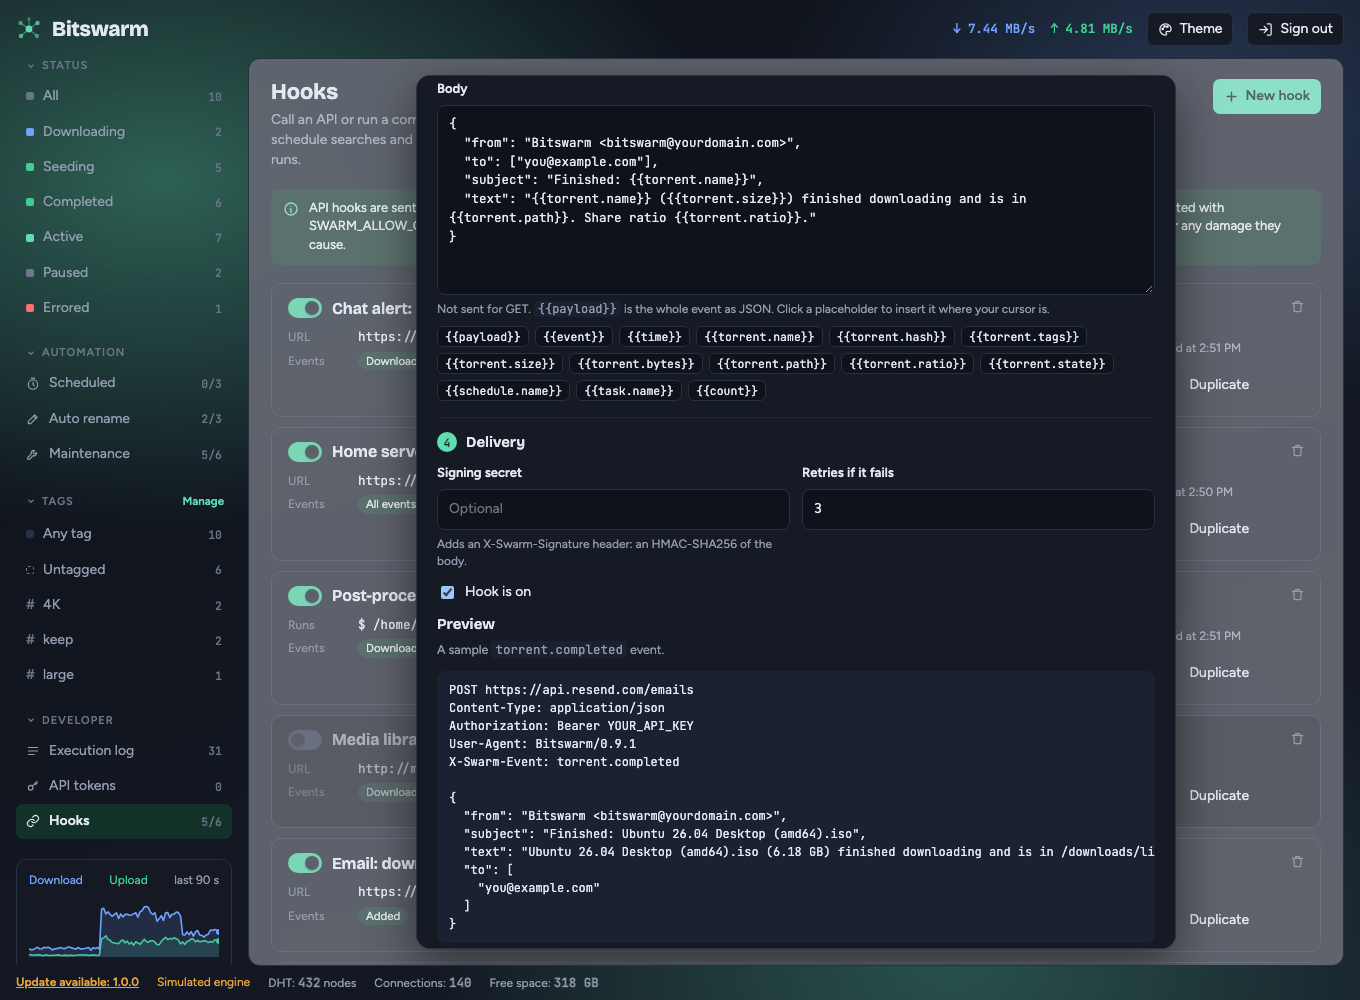
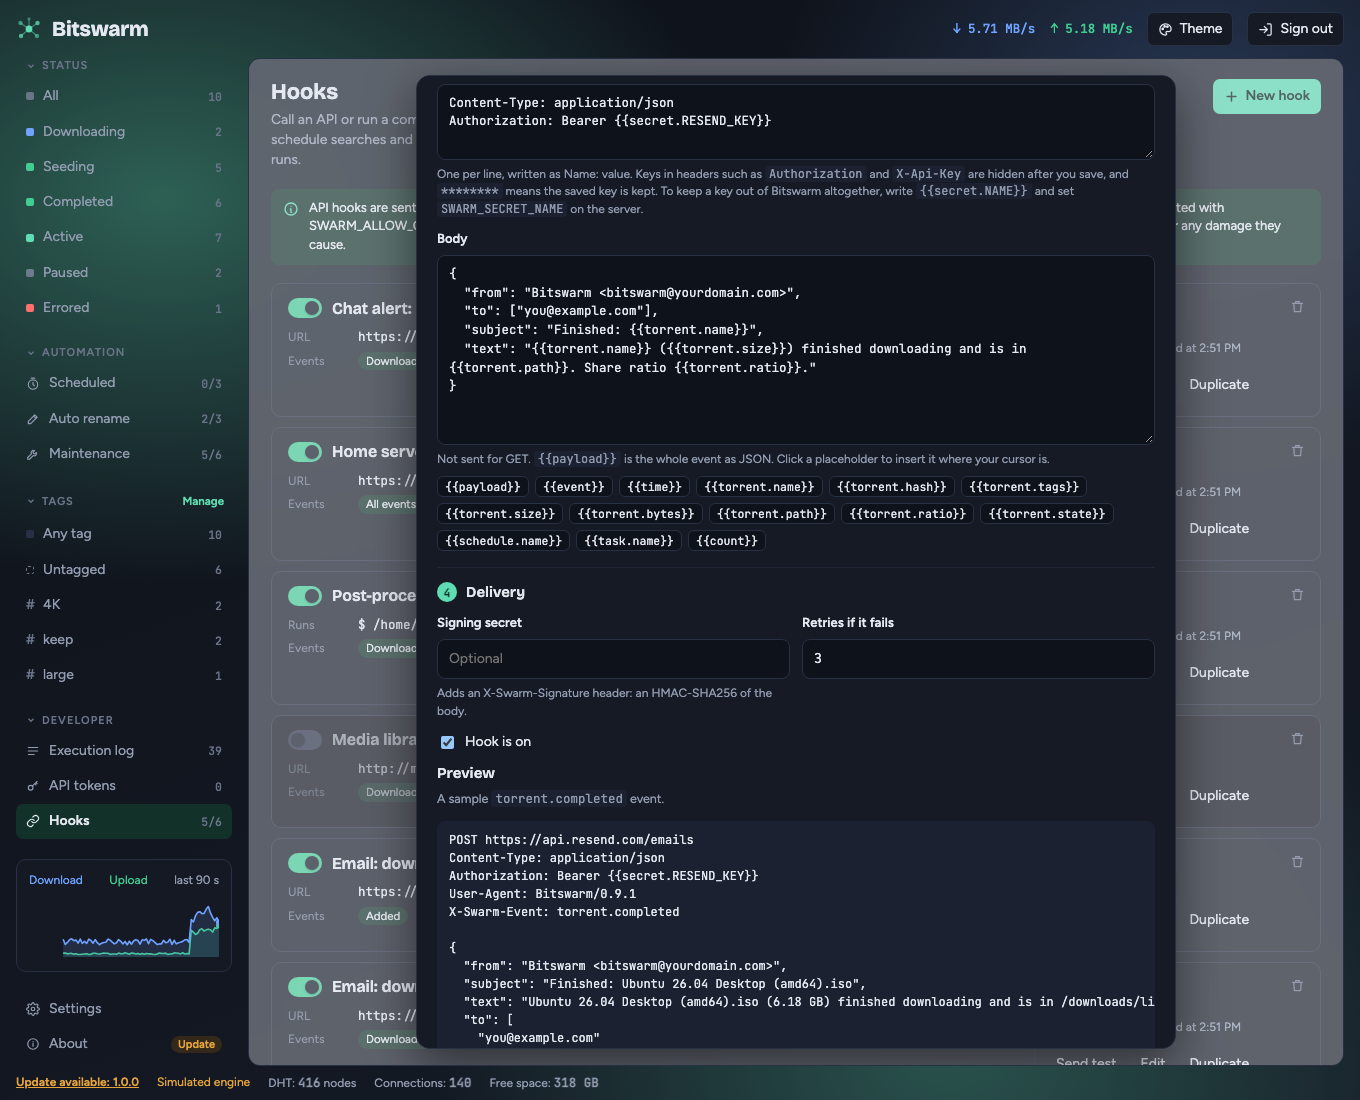
Document how secrets are handled
Add keeping keys out of the database to the README, a Secrets summary under
Security, the SWARM_SECRET_ variables, SECURITY.md advice and the rules for
contributors in CLAUDE.md. Replace chmod 777 with a chown in the quick start,
and retake the API hook screenshot to match.

diff --git a/README.md b/README.md
@@ -74,8 +74,10 @@ Use any email service that sends mail from a JSON request. This example uses the
 
 ```text
 Content-Type: application/json
-Authorization: Bearer YOUR_API_KEY
+Authorization: Bearer {{secret.RESEND_KEY}}
 ```
+
+`{{secret.RESEND_KEY}}` keeps your API key out of Bitswarm's database. See [Keep keys out of the database](#keep-keys-out-of-the-database) below for how to set it.
 
 **Email: download started.** Tick the event **Added**, and use this body:
 
@@ -104,8 +106,31 @@ Notes:
 - Placeholder values are escaped for JSON automatically, so a torrent name with quotes can't break the request.
 - For a magnet link, the name and size may not be known when the torrent is added. Tick **Metadata received** instead of **Added** to send the email once they are.
 - Press **Send test** to send a sample event first. The preview under the form shows the request before anything leaves your machine.
-- The API key is saved with the hook, in the header text. Use a key that can only send email, and treat the `data` folder and settings backups as sensitive.
+- Use an API key that can only send email, and rotate it if it ever leaks.
 - Replace `from` with an address your email service has verified. To send through a different service, change the URL, the headers and the body to match its API.
+
+#### Keep keys out of the database
+
+Write `{{secret.NAME}}` anywhere in an API hook's URL, headers or body. When Bitswarm sends the request, it reads the value from the server's environment variable `SWARM_SECRET_NAME`, or from the file named by `SWARM_SECRET_NAME_FILE` (handy for Docker secrets). Names use capital letters, digits and underscores.
+
+- The value is never saved with the hook. The editor, the API, the delivery history, the logs and backups only ever show `{{secret.NAME}}`.
+- If the variable isn't set, the hook doesn't send and says which one is missing. The editor warns you too.
+- Command hooks can't use it. A script can read its own file instead.
+
+In Docker, put the key in a `.env` file next to `docker-compose.yml`, and pass it to the server with a `docker-compose.override.yml`. Compose picks the override file up on its own:
+
+```text
+SWARM_SECRET_RESEND_KEY=re_your_key_here
+```
+
+```yaml
+services:
+  server:
+    environment:
+      SWARM_SECRET_RESEND_KEY: ${SWARM_SECRET_RESEND_KEY}
+```
+
+Then run `docker compose up -d`. If you type a key straight into a header instead, Bitswarm hides it in the editor and the API after you save, but it is still stored as plain text in the database file. Use `{{secret.NAME}}` when you can.
 
 ### API tokens
 
@@ -132,7 +157,8 @@ You only need [Docker](https://docs.docker.com/get-docker/) with Compose.
 ```sh
 mkdir bitswarm && cd bitswarm
 curl -fsSLO https://raw.githubusercontent.com/bitswarm-dev/bitswarm/main/docker-compose.yml
-mkdir data downloads && chmod 777 data downloads
+mkdir data downloads
+sudo chown 10001:10001 data downloads
 docker compose up -d
 ```
 
@@ -142,7 +168,7 @@ The images [`dockerkeithics/bitswarm-server`](https://hub.docker.com/r/dockerkei
 
 - **Sign-in is always required** in Docker, because the server sees nginx as the client and not localhost.
 - **The web port is bound to `127.0.0.1` by default.** To reach it from other machines, set `SWARM_BIND=0.0.0.0` and put it behind HTTPS.
-- **Data:** the database and engine state live in `./data` (change it with `SWARM_DATA_DIR`). Downloads go to `./downloads` (change it with `SWARM_DOWNLOADS_DIR`). Both folders must be writable by user ID 10001, which is what the `chmod` step does. Without it, Docker creates them owned by root and the server can't start on Linux.
+- **Data:** the database and engine state live in `./data` (change it with `SWARM_DATA_DIR`). Downloads go to `./downloads` (change it with `SWARM_DOWNLOADS_DIR`). Both folders must be writable by user ID 10001, which is what the `chown` step does. Without it, Docker creates them owned by root and the server can't start on Linux. Docker Desktop on macOS and Windows doesn't need the `chown`. Don't open the folders up with `chmod 777`: the data folder holds your database, and Bitswarm makes the database file readable by its owner only. To back it up, use Settings → Backup, or copy it with `sudo`.
 - **Peers:** port 51413 (TCP and UDP) is published for peer connections. If that port is taken, set `SWARM_PEER_PORT` (for example `51414`), set the same listening port in Settings, and restart. The host and container ports must match so peers can reach you. UPnP can't open ports from inside a container, so forward the port on your router if you need incoming connections.
 - **Versions:** the compose file pulls the latest stable release. To pin a version, set `SWARM_VERSION` (for example `SWARM_VERSION=0.9.1`) and run `docker compose pull && docker compose up -d` to update. Each release also has a `docker-compose.yml` already pinned to its version. Per-platform tags such as `0.9.1-amd64` exist too.
 - **Other options** (set in your shell or a `.env` file): `SWARM_WEB_PORT` (default 8080), `SWARM_PEER_PORT` (default 51413), `SWARM_DATA_DIR`, `SWARM_DOWNLOADS_DIR`, `SWARM_DEMO`, `SWARM_ALLOW_COMMANDS`, `SWARM_UPDATE_FEED`, `LOG_LEVEL`. Commands run by hooks would run inside the server container.
@@ -191,6 +217,7 @@ The server reads these environment variables:
 | `SWARM_DEMO` | off | `1` switches to the simulated engine with sample data |
 | `SWARM_ALLOW_COMMANDS` | off | `1` lets command hooks run on this machine |
 | `SWARM_UPDATE_FEED` | none | URL of a release feed for the update check |
+| `SWARM_SECRET_<NAME>` | none | A secret for API hooks. Write `{{secret.NAME}}` in a hook to use it. `SWARM_SECRET_<NAME>_FILE` reads it from a file instead. |
 | `LOG_LEVEL`, `LOG_FORMAT` | | Logging |
 
 Everything else (save paths, limits, queueing, Web UI login) is in the Settings page.
@@ -229,6 +256,17 @@ UI changes also need a check in a real browser, in light and dark themes, at des
 ## Security
 
 Bitswarm can run commands and call URLs through hooks, so treat access to it like shell access to the host. Change the default password, keep the port on localhost or behind HTTPS, and leave command hooks off unless you need them.
+
+How secrets are handled:
+
+- **Web password:** stored only as a PBKDF2-SHA256 hash with a random salt.
+- **API tokens:** shown once when you create them. Only a SHA-256 hash and the last 4 characters are kept.
+- **API keys for hooks:** use `{{secret.NAME}}` so the key lives in the server's environment and never in the database. A key typed into a header such as `Authorization` or `X-Api-Key` is hidden in the editor, the API and the delivery history after you save, but it is stored as plain text in the database file.
+- **Hook signing secrets:** stored, because Bitswarm needs them to sign, but never sent back to the browser.
+- **The database file:** readable by its owner only (`0600`).
+- **Backups:** secrets are left out unless you tick "include secrets". Real keys in secret-looking headers (`Authorization`, `X-Api-Key`, `Cookie` and similar) are blanked, and `{{secret.NAME}}` references are kept.
+- **Errors and logs:** addresses are shown without their query string, so a key in `?apikey=…` doesn't end up in the log.
+- **Not covered:** a key placed in a URL, a body or a custom-named header is not recognized as secret. Put it in `{{secret.NAME}}`.
 
 To report a vulnerability, open a private security advisory on the GitHub repository. Please don't post it in a public issue.
 

diff --git a/CLAUDE.md b/CLAUDE.md
@@ -60,7 +60,7 @@ Known gaps (all disclosed in the UI):
 
 1. **Never pretend.** If something is simulated (downloads, update feed, hook delivery, command execution), the UI must say so in plain words. Hooks log as **"Not sent" / "Not run"** until delivery truly works.
 2. **Every user-visible lifecycle step goes through `events.Emitter.Emit()`** (§6). That one call feeds the execution log and the hooks.
-3. **Safety first for anything that runs or leaves the machine.** Shell placeholders are always single-quoted, secrets are hashed or redacted, hooks show an advanced-user warning, imported hooks start disabled, and command hooks stay off unless the server is started with them enabled.
+3. **Safety first for anything that runs or leaves the machine.** Shell placeholders are always single-quoted, secrets are hashed, masked or kept in the environment, hooks show an advanced-user warning, imported hooks start disabled, and command hooks stay off unless the server is started with them enabled.
 4. **Both themes, both widths.** Every UI change must work in light and dark (system, light, dark) and at ~390 px width with no horizontal page scroll.
 5. **Plain, specific copy.** Buttons say exactly what happens ("Revoke", "Move", "Save changes"). Errors say what went wrong and how to fix it. No apologies, no vague "Something went wrong".
 6. **Reuse the existing look.** `dashboard/src/styles/global.css` holds the shared CSS. Use its class names (`.row`, `.fbtn`, `.pill`, `.sched`, `.rule`, `.modal`, `.menu`, …) before inventing new ones, and keep colors as tokens.
@@ -162,6 +162,8 @@ Every event in the table is emitted today. Use `Logger.Add(level, source, messag
 
 - Placeholders: `{{payload}}`, `{{event}}`, `{{time}}`, `{{torrent.name}}`, `{{torrent.hash}}`, `{{torrent.tags}}`, `{{torrent.size}}`, `{{torrent.bytes}}`, `{{torrent.path}}`, `{{torrent.ratio}}`, `{{torrent.state}}`, `{{schedule.name}}`, `{{task.name}}`, `{{count}}`.
 - Escape by context: URL gets `encodeURIComponent`; JSON gets JSON-string escaping (except `payload`, inserted raw); shell gets single quotes; text is raw.
+- **Secrets:** `{{secret.NAME}}` is resolved only at send time, from `SWARM_SECRET_NAME` or `SWARM_SECRET_NAME_FILE`. `Fill` leaves it untouched, so `Build`, previews, stored deliveries, logs and backups only ever hold the placeholder. API hooks only: `validate` rejects it in commands. Header values for `Authorization`, `X-Api-Key` and similar (`IsSecretHeader`) are masked as `********` in the view, previews and stored deliveries, and `Update` restores the saved value when the mask comes back unchanged. Backups blank real values in those headers and keep `{{secret.NAME}}` references. Never put a resolved secret in a log line, an error or a `Delivery`.
+- **URLs in errors:** run client errors through `redact.Err` so query strings (`?apikey=…`) never reach the log or a stored delivery.
 - API requests add `User-Agent: Bitswarm/<version>` and `X-Swarm-Event`. With a signing secret they add `X-Swarm-Signature: sha256=<hex HMAC-SHA256 of the body>`.
 - Commands get env vars `SWARM_EVENT`, `SWARM_TIME`, `SWARM_TORRENT_NAME`, `SWARM_TORRENT_HASH`, `SWARM_TORRENT_PATH`, `SWARM_TORRENT_SIZE`, `SWARM_SCHEDULE`, `SWARM_TASK`, optional JSON on stdin, and a timeout.
 - **Never** interpolate a placeholder into a shell command without single-quoting it. A torrent name like `x'; rm -rf ~ #` must arrive as one literal argument.

diff --git a/SECURITY.md b/SECURITY.md
@@ -35,3 +35,6 @@ Examples we care about:
 - Keep the web port on `127.0.0.1`, or put it behind HTTPS if you expose it.
 - Leave command hooks off unless you need them. A command hook can run anything the server user can run.
 - Treat API tokens like passwords. Prefer the read scope when control isn't needed.
+- Keep API keys for hooks out of the database: write `{{secret.NAME}}` in the hook and set `SWARM_SECRET_NAME` on the server. A key typed into a header is hidden after you save, but it is stored as plain text.
+- Keep the data folder private. It holds the database, and Bitswarm makes the database file readable by its owner only. Don't `chmod 777` it.
+- Leave "include secrets" off when you export a backup.
